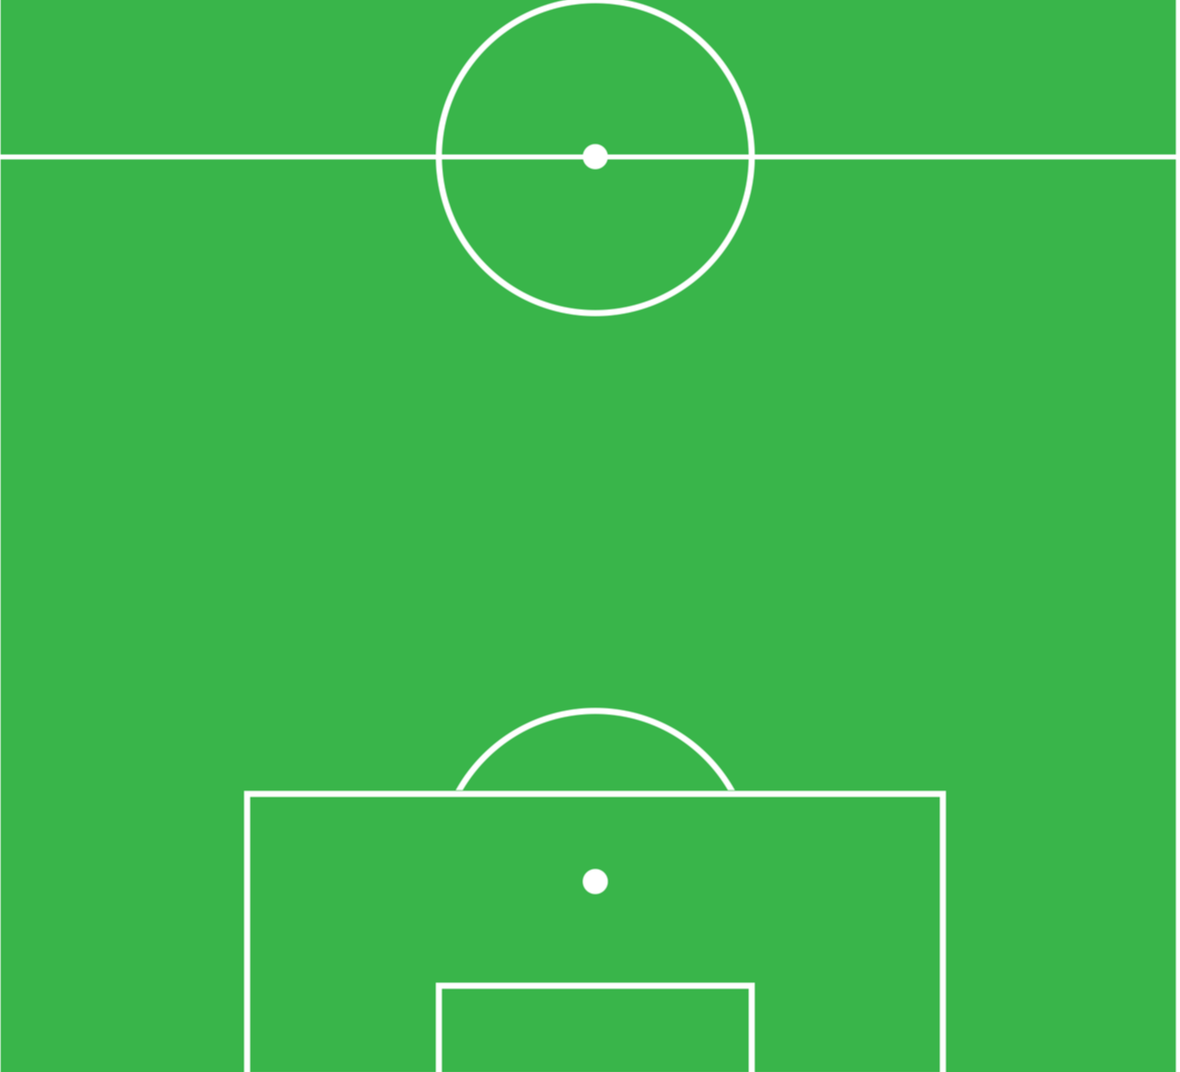
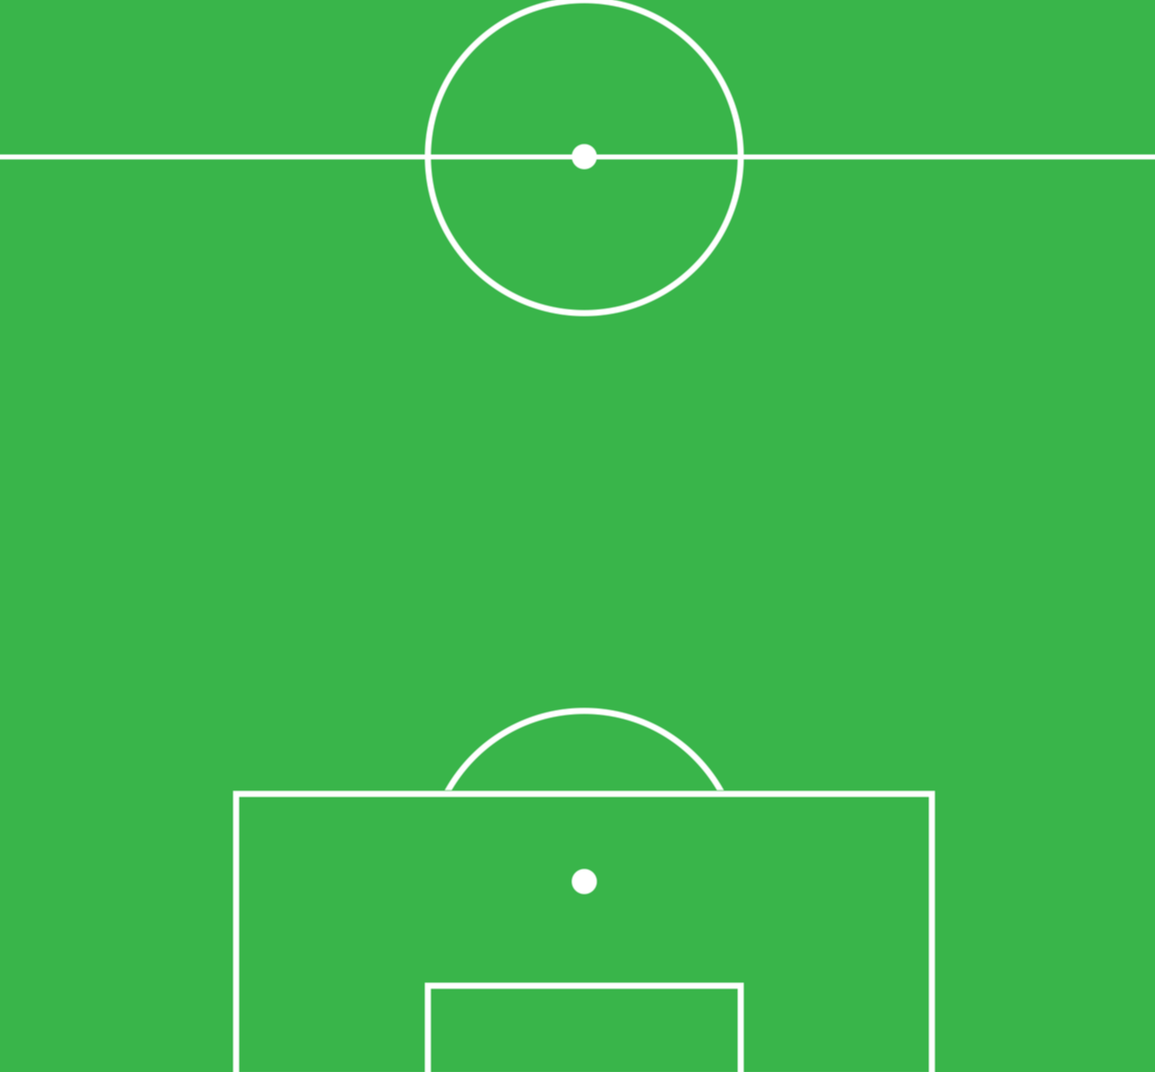
edit

diff --git a/src/index.js b/src/index.js
@@ -416,9 +416,12 @@ let playerDatabase = [
     positioning: 85,
   },
 ];
-if (localStorage.getItem("playerDatabase") !== null) {
+if (localStorage.getItem("playerDatabase") === "[]") {
+  localStorage.setItem("playerDatabase", JSON.stringify(playerDatabase));
+} else {
   playerDatabase = JSON.parse(localStorage.getItem("playerDatabase"));
 }
+
 //formations Database
 const formations = [
   {
@@ -499,6 +502,8 @@ function createStatBar(value, label) {
 // Function to render player cards
 function renderAvailablePlayers(searchTerm = "") {
   const playerList = document.getElementById("playerList");
+
+  // Filter players based on the search term
   const filteredPlayers = playerDatabase.filter(
     (player) =>
       player.name.toLowerCase().includes(searchTerm.toLowerCase()) ||
@@ -511,7 +516,7 @@ function renderAvailablePlayers(searchTerm = "") {
   filteredPlayers.forEach((player) => {
     let playerCard = document.createElement("div");
     playerCard.className =
-      "border rounded-lg p-4 hover:bg-gray-50 cursor-pointer player-card";
+      "border rounded-lg p-4 hover:bg-gray-50 cursor-pointer player-card relative";
 
     // Check if player is a goalkeeper
     const isGoalkeeper = player.position === "GK";
@@ -556,8 +561,29 @@ function renderAvailablePlayers(searchTerm = "") {
           ${player.rating}
         </div>
       </div>
+      <!-- Remove Button -->
+      <button 
+        class="absolute top-2 right-2 bg-red-500 text-white text-sm px-2 py-1 rounded hover:bg-red-600 transition remove-btn"
+        title="Remove Player">
+        Remove
+      </button>
     `;
 
+    // Add "Remove" button functionality
+    playerCard.querySelector(".remove-btn").addEventListener("click", (e) => {
+      e.stopPropagation(); // Prevent triggering the card's click event
+
+      // Remove the player from the playerDatabase
+      playerDatabase = playerDatabase.filter((p) => p.name !== player.name);
+      localStorage.setItem("playerDatabase", JSON.stringify(playerDatabase));
+
+      renderSquad();
+
+      // Re-render the player list
+      renderAvailablePlayers(searchTerm);
+    });
+
+    // Add "Add to Squad" functionality to the card
     playerCard.addEventListener("click", () => addToSquad(player));
 
     playerList.appendChild(playerCard);
@@ -603,64 +629,87 @@ function addToSquad(player) {
 function createSquadCard(player) {
   let squadCard = document.createElement("div");
 
-  // Set the card's dimensions and background image
-  squadCard.className = "relative text-white rounded-lg";
-  squadCard.style.width = "252px";
-  squadCard.style.height = "350px";
-  squadCard.style.backgroundImage = `url(https://raw.githubusercontent.com/aymanebenhima/FUT-Champ-Ultimate-Team-Assets/refs/heads/main/src/assets/img/badge_ballon_dor.webp)`;
-  squadCard.style.backgroundSize = "cover";
-  squadCard.style.backgroundPosition = "center";
+  squadCard.className = "CB-5 player flex flex-col justify-center";
+
+  // Extract the player's last name
+  const playerLastName = player.name.split(" ").slice(-1)[0];
+
+  // Determine stats based on the player's position
+  const isGoalkeeper = player.position === "GK";
+  const statsHTML = isGoalkeeper
+    ? `
+      <div>
+        <span class="text-yellow-400">${player.diving}</span>
+        <span style="font-size: 8px;">DIV</span>
+      </div>
+      <div>
+        <span class="text-yellow-400">${player.handling}</span>
+        <span style="font-size: 8px;">HAN</span>
+      </div>
+      <div>
+        <span class="text-yellow-400">${player.reflexes}</span>
+        <span style="font-size: 8px;">REF</span>
+      </div>
+      <div>
+        <span class="text-yellow-400">${player.speed}</span>
+        <span style="font-size: 8px;">SPD</span>
+      </div>
+    `
+    : `
+      <div>
+        <span class="text-yellow-400">${player.physical}</span>
+        <span style="font-size: 8px;">PHY</span>
+      </div>
+      <div>
+        <span class="text-yellow-400">${player.shooting}</span>
+        <span style="font-size: 8px;">SHO</span>
+      </div>
+      <div>
+        <span class="text-yellow-400">${player.passing}</span>
+        <span style="font-size: 8px;">PAS</span>
+      </div>
+      <div>
+        <span class="text-yellow-400">${player.dribbling}</span>
+        <span style="font-size: 8px;">DRI</span>
+      </div>
+    `;
 
   squadCard.innerHTML = `
-    <!-- Top-right: Club and Nationality -->
-    <div class="absolute top-2 right-2 flex items-center space-x-1">
-      <img src="${player.flag}" alt="${player.nationality}" class="w-4 h-3">
-      <img src="${player.logo}" alt="${player.club}" class="w-4 h-4">
-    </div>
-
-    <!-- Center: Player photo and details -->
-    <div class="absolute top-16 left-1/2 transform -translate-x-1/2 text-center">
-      <img src="${player.photo}" alt="${player.name}" class="mx-auto w-12 h-12 rounded-full border border-white">
-      <h3 class="font-bold text-sm mt-1">${player.name}</h3>
-      <span class="text-xs block mt-1">${player.position}</span>
-    </div>
-
-    <!-- Bottom: Player stats -->
-    <div class="absolute bottom-4 left-0 right-0 px-4">
-      <div class="grid grid-cols-3 gap-1 text-xs text-center">
-        <div>
-          <span class="font-bold">PAC</span>
-          <span class="block">${player.pace}</span>
-        </div>
-        <div>
-          <span class="font-bold">SHO</span>
-          <span class="block">${player.shooting}</span>
-        </div>
-        <div>
-          <span class="font-bold">PAS</span>
-          <span class="block">${player.passing}</span>
-        </div>
-        <div>
-          <span class="font-bold">DRI</span>
-          <span class="block">${player.dribbling}</span>
-        </div>
-        <div>
-          <span class="font-bold">DEF</span>
-          <span class="block">${player.defending}</span>
-        </div>
-        <div>
-          <span class="font-bold">PHY</span>
-          <span class="block">${player.physical}</span>
+    <div 
+      class="relative w-[130px] h-[180px] max-sm:w-[100px] rounded-[12px] overflow-hidden shadow-lg text-white bg-cover bg-center" 
+      style="background-image: url('src/assets/badge_ballon_dor-removebg-preview.png');">
+      
+      <!-- Delete Button -->
+      <button 
+        class="delete-btn absolute top-2 right-1 bg-red-500 text-white rounded-full p-1 hover:bg-red-600 transition"
+        onclick="removeFromSquad('${player.name}')">
+        <svg xmlns="http://www.w3.org/2000/svg" class="w-4 h-4" fill="none" viewBox="0 0 24 24" stroke="currentColor" stroke-width="2">
+          <path stroke-linecap="round" stroke-linejoin="round" d="M6 18L18 6M6 6l12 12" />
+        </svg>
+      </button>
+      
+      <!-- Player Icon -->
+      <div class="flex justify-center mt-6">
+        <img 
+          class="w-20 h-20 object-cover rounded-full border-2 border-white shadow-lg" 
+          src="${player.photo}" 
+          alt="${player.name}">
+      </div>
+      
+      <!-- Player Last Name -->
+      <div 
+        class="absolute bottom-[50px] w-full text-center font-bold text-sm text-white pb-1" 
+        id="PlayerName">
+        ${playerLastName}
+      </div>
+      
+      <!-- Player Statistics -->
+      <div class="absolute bottom-6 w-full px-3">
+        <div class="grid grid-cols-2 text-center text-xs font-bold">
+          ${statsHTML}
         </div>
       </div>
     </div>
-
-    <!-- Remove Button -->
-    <button 
-      class="absolute top-2 left-2 bg-red-500 text-xs px-1 py-0.5 rounded text-white"
-      onclick="removeFromSquad('${player.name}')">
-      Remove
-    </button>
   `;
 
   return squadCard;
@@ -679,7 +728,17 @@ function removeFromSquad(playerName) {
 
 function renderSquad() {
   squadList.innerHTML = "";
-  selectedPlayers.forEach((player) => {
+
+  // Filter selected players to include only those still in playerDatabase
+  const validPlayers = selectedPlayers.filter((player) =>
+    playerDatabase.some((dbPlayer) => dbPlayer.name === player.name)
+  );
+
+  // Update localStorage with the valid players array
+  localStorage.setItem("selectedPlayers", JSON.stringify(validPlayers));
+
+  // Update the squad list to match the valid players
+  validPlayers.forEach((player) => {
     let squadCard = createSquadCard(player);
     squadList.appendChild(squadCard);
   });

diff --git a/index.html b/index.html
@@ -12,7 +12,7 @@
       #field {
         position: relative;
         background-image: url("src/assets/field.png");
-        background-size: contain;
+        background-size: cover;
         background-repeat: no-repeat;
         background-position: center;
         width: 100%;
@@ -75,10 +75,7 @@
       <!-- Current Squad -->
       <div class="lg:col-span-3 bg-white p-6 rounded-lg shadow-lg mt-8">
         <h2 class="text-2xl font-semibold mb-4 text-gray-800">Current Squad</h2>
-        <div
-          id="squadList"
-          class="grid grid-cols-1 md:grid-cols-2 lg:grid-cols-3 xl:grid-cols-4 gap-4"
-        >
+        <div id="squadList" class="flex flex-wrap gap-5">
           <!-- Squad player cards go here -->
         </div>
       </div>
